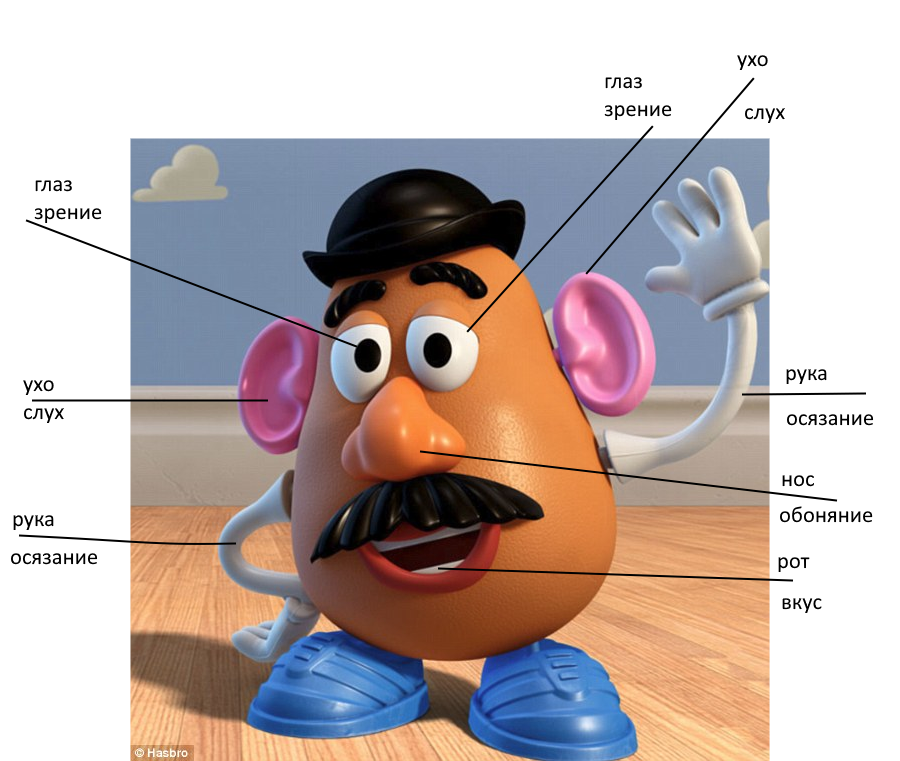
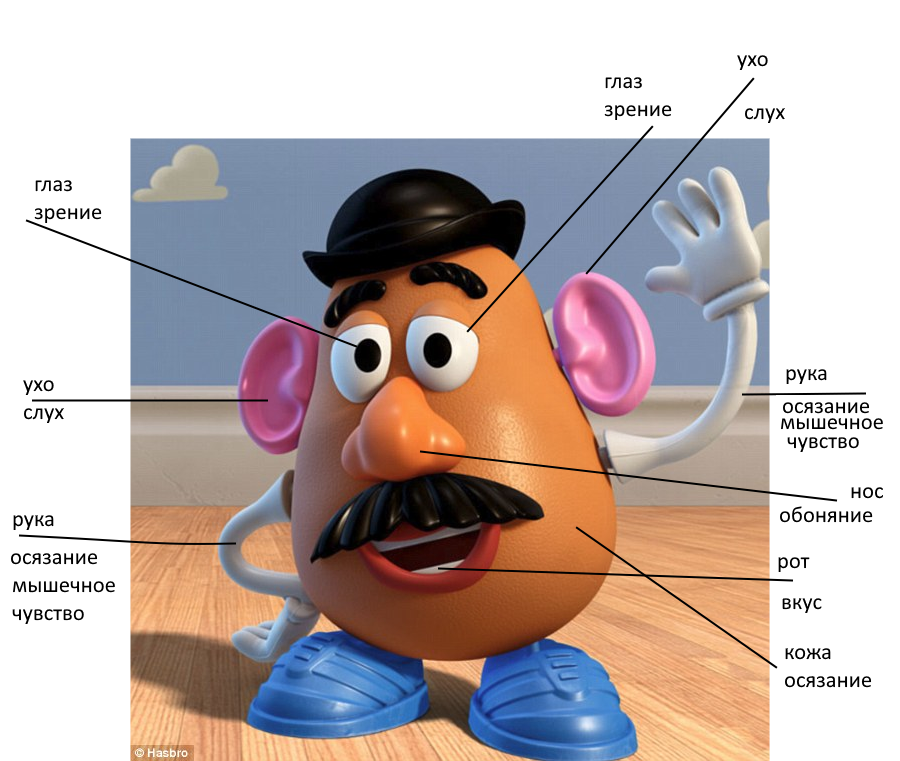
ошибки и кожа

diff --git a/mr_potato.html b/mr_potato.html
@@ -103,10 +103,68 @@ a.back { color: #8cc7ff; font-size: 13px; text-decoration: none; }
 .answer-mark.ask { color: #ffd166; font-size: 32px; line-height: 1; }
 #status { font-size: 14px; min-height: 1.4em; }
 .ok { color: #8ee39f; } .bad { color: #ff9b98; } .info { color: #9ec3ff; }
-.journal { margin-top: 10px; border-top: 1px solid #2d3446; padding-top: 8px; }
-.journal h3 { font-size: 13px; margin-bottom: 6px; color: #b8c7e6; }
-#journal-list { margin: 0; padding-left: 18px; max-height: 160px; overflow: auto; }
-#journal-list li { font-size: 12px; color: #c4cce0; margin: 3px 0; }
+.journal-overlay {
+  position: fixed;
+  inset: 0;
+  z-index: 1000;
+  display: flex;
+  align-items: center;
+  justify-content: center;
+  padding: max(12px, env(safe-area-inset-top)) 14px max(14px, env(safe-area-inset-bottom));
+  background: rgba(8, 9, 14, 0.62);
+  backdrop-filter: blur(4px);
+}
+.journal-overlay[hidden] { display: none !important; }
+.journal-panel {
+  position: relative;
+  width: min(520px, 100%);
+  max-height: min(78vh, 100%);
+  display: flex;
+  flex-direction: column;
+  background: #171a23;
+  border: 1px solid #3a4258;
+  border-radius: 14px;
+  padding: 14px 16px 16px;
+  box-shadow: 0 16px 48px rgba(0,0,0,0.5);
+}
+.journal-panel h2 {
+  font-size: 16px;
+  color: #c8d6f0;
+  margin-bottom: 10px;
+  padding-right: 36px;
+}
+.journal-close-x {
+  position: absolute;
+  top: 8px;
+  right: 8px;
+  width: 36px;
+  height: 36px;
+  border: 1px solid #4a5676;
+  border-radius: 10px;
+  background: #2a2f3f;
+  color: #e9eefb;
+  font-size: 22px;
+  line-height: 1;
+  cursor: pointer;
+  font-weight: 700;
+}
+#journal-list {
+  margin: 0;
+  padding-left: 18px;
+  overflow: auto;
+  flex: 1;
+  min-height: 0;
+  max-height: min(52vh, 420px);
+}
+#journal-list li { font-size: 12px; color: #c4cce0; margin: 4px 0; }
+.journal-modal-actions {
+  display: flex;
+  flex-wrap: wrap;
+  gap: 8px;
+  margin-top: 14px;
+  padding-top: 12px;
+  border-top: 1px solid #2d3446;
+}
 #canvas-wrap {
   position: relative;
   width: 100%;
@@ -147,23 +205,31 @@ button:disabled { opacity: 0.6; cursor: not-allowed; }
   <div class="main">
     <div class="card">
       <div id="prompt">Нажми «Старт»</div>
-      <div id="hint">Игрок видит предмет и лицо героя. Коснись на лице правильных зон органов чувств.</div>
+      <div id="hint">На картинке: уши — слух, глаза — зрение, нос — обоняние, рот — вкус; отдельно кожа осязания (ветер, дождь) и рука — осязание, мышечное чувство (мяч, ложка).</div>
       <div class="item-view"><span id="item-emoji">❔</span><span id="item-name">предмет</span></div>
       <div class="balls" id="balls"><span id="answer-mark" class="answer-mark"></span></div>
       <div id="status" class="info"></div>
       <div class="controls" style="margin-top:10px;">
         <button id="start">Старт</button>
         <button id="restart" class="secondary">Сброс</button>
-        <button id="download-journal" class="secondary">Скачать журнал</button>
-      </div>
-      <div class="journal">
-        <h3>Журнал ответов</h3>
-        <ol id="journal-list"></ol>
+        <button id="journal-open" class="secondary" type="button">Журнал</button>
       </div>
     </div>
 
     <div id="canvas-wrap">
       <canvas id="c"></canvas>
+    </div>
+  </div>
+
+  <div id="journal-modal" class="journal-overlay" hidden role="dialog" aria-modal="true" aria-hidden="true" aria-labelledby="journal-modal-title">
+    <div class="journal-panel" role="document">
+      <button type="button" class="journal-close-x" id="journal-close" aria-label="Закрыть">×</button>
+      <h2 id="journal-modal-title">Журнал ответов</h2>
+      <ol id="journal-list"></ol>
+      <div class="journal-modal-actions">
+        <button type="button" id="download-journal" class="secondary">Скачать журнал</button>
+        <button type="button" id="journal-close-btn" class="secondary">Закрыть</button>
+      </div>
     </div>
   </div>
 </div>
@@ -174,6 +240,7 @@ button:disabled { opacity: 0.6; cursor: not-allowed; }
     { id:'ears',  name:'уши',  file:'img/потейто_уши.png',  color:'rgba(124,193,255,0.32)' },
     { id:'eyes',  name:'глаза', file:'img/потейто_глаза.png', color:'rgba(136,255,170,0.30)' },
     { id:'nose',  name:'нос',  file:'img/потейто_нос.png',  color:'rgba(255,178,94,0.34)' },
+    { id:'skin',  name:'кожа', file:'img/потейто_кожа.png',  color:'rgba(255,200,170,0.28)' },
     { id:'mouth', name:'рот',  file:'img/потейто_рот.png',  color:'rgba(255,120,153,0.32)' },
     { id:'hands', name:'руки', file:'img/потейто_руки.png', color:'rgba(216,163,255,0.30)' },
   ];
@@ -193,8 +260,8 @@ button:disabled { opacity: 0.6; cursor: not-allowed; }
     { name:'шоколад', emoji:'🍫', needs:['mouth'], possible:['eyes','nose','hands'] },
     { name:'ложка', emoji:'🥄', needs:['hands'], possible:['eyes'] },
     { name:'чай', emoji:'🍵', needs:['mouth','nose'], possible:['eyes','hands'] },
-    { name:'свеча', emoji:'🕯', needs:['eyes','nose'], possible:['hands'] },
-    { name:'дождь', emoji:'🌧', needs:['ears','hands'], possible:['eyes'] },
+    { name:'свеча', emoji:'🕯', needs:['eyes','nose'], possible:['hands','skin'] },
+    { name:'дождь', emoji:'🌧', needs:['ears','skin'], possible:['eyes'] },
     { name:'песок', emoji:'🏖', needs:['hands'], possible:['eyes'] },
     { name:'кубики', emoji:'🧱', needs:['hands','eyes'], possible:['ears'] },
     { name:'погремушка', emoji:'🪇', needs:['ears','hands'], possible:['eyes'] },
@@ -206,10 +273,10 @@ button:disabled { opacity: 0.6; cursor: not-allowed; }
     { name:'собака', emoji:'🐶', needs:['ears','eyes'], possible:['hands','nose'] },
     { name:'трава', emoji:'🌿', needs:['hands','nose'], possible:['eyes'] },
     { name:'цветной карандаш', emoji:'✏', needs:['eyes','hands'], possible:[] },
-    { name:'музыка', emoji:'🎵', needs:['ears'], possible:['hands'] },
-    { name:'ветер', emoji:'💨', needs:['hands','ears'], possible:['eyes'] },
-    { name:'лёд', emoji:'🧊', needs:['hands'], possible:['mouth','eyes'] },
-    { name:'мед', emoji:'🍯', needs:['mouth'], possible:['nose','eyes'] },
+    { name:'музыка', emoji:'🎵', needs:['ears'], possible:['skin'] },
+    { name:'ветер', emoji:'💨', needs:['ears','skin'], possible:['eyes','hands'] },
+    { name:'лёд', emoji:'🧊', needs:['hands'], possible:['mouth','eyes','skin'] },
+    { name:'мёд', emoji:'🍯', needs:['mouth'], possible:['nose','eyes'] },
     { name:'часы (тикают)', emoji:'🕰', needs:['ears'], possible:['eyes'] },
     { name:'зеркало', emoji:'🪞', needs:['eyes'], possible:['hands'] },
     { name:'хлеб', emoji:'🍞', needs:['mouth','nose'], possible:['hands','eyes'] },
@@ -228,6 +295,10 @@ button:disabled { opacity: 0.6; cursor: not-allowed; }
   const ballsEl=document.getElementById('balls');
   const answerMarkEl=document.getElementById('answer-mark');
   const journalListEl=document.getElementById('journal-list');
+  const journalModal=document.getElementById('journal-modal');
+  const journalOpenBtn=document.getElementById('journal-open');
+  const journalCloseX=document.getElementById('journal-close');
+  const journalCloseBtn=document.getElementById('journal-close-btn');
   const startBtn=document.getElementById('start');
   const restartBtn=document.getElementById('restart');
   const dlJournalBtn=document.getElementById('download-journal');
@@ -246,13 +317,14 @@ button:disabled { opacity: 0.6; cursor: not-allowed; }
     base:null, lines:null, masks:new Map(), maskData:new Map(),
     drawRect:{x:0,y:0,w:0,h:0},
   };
-  const FEEDBACK_SPEAK_LABEL={
-    ears:'ухо',
-    eyes:'зрение',
-    nose:'нос',
-    mouth:'вкус',
-    hands:'рука',
-  };
+  function feedbackSpeakStem(id){
+    if(id==='hands') return 'Рука осязание мышечное чувство';
+    if(id==='ears') return 'Уши, слух';
+    if(id==='eyes') return 'Глаза, зрение';
+    if(id==='nose') return 'Нос, обоняние';
+    if(id==='mouth') return 'Рот, вкус';
+    return '';
+  }
   const FONT_MIN=0.8, FONT_MAX=1.45, FONT_STEP=0.08;
   const SETTINGS_KEY='mr_potato_settings_v1';
   const PROMPT_GAME_TITLE='ЧЕМ МЫ ЧУВСТВУЕМ';
@@ -326,15 +398,16 @@ button:disabled { opacity: 0.6; cursor: not-allowed; }
   }
   function speakPickFeedback(id, verdict){
     if(!('speechSynthesis' in window)) return;
-    const label=FEEDBACK_SPEAK_LABEL[id];
-    if(!label) return;
     const tail=verdict==='yes'?'да':verdict==='maybe'?'возможно':'нет';
-    speakQueue.push(label+' — '+tail);
-    pumpSpeakQueue();
-  }
-  function speakMissFeedback(){
-    if(!('speechSynthesis' in window)) return;
-    speakQueue.push('Мимо — нет');
+    if(id==='skin'){
+      speakQueue.push('Кожа осязания');
+      speakQueue.push(tail.charAt(0).toUpperCase()+tail.slice(1));
+      pumpSpeakQueue();
+      return;
+    }
+    const stem=feedbackSpeakStem(id);
+    if(!stem) return;
+    speakQueue.push(stem+' — '+tail);
     pumpSpeakQueue();
   }
   function speakItemName(name){
@@ -533,7 +606,6 @@ button:disabled { opacity: 0.6; cursor: not-allowed; }
       answerMarkEl.textContent='?';
       answerMarkEl.className='answer-mark ask';
       setStatus('', 'info');
-      speakMissFeedback();
       draw();
       return;
     }
@@ -606,8 +678,20 @@ button:disabled { opacity: 0.6; cursor: not-allowed; }
     if(state.running) updateHud();
     requestAnimationFrame(tick);
   }
+  function openJournalModal(){
+    journalModal.hidden=false;
+    journalModal.setAttribute('aria-hidden','false');
+    try{ journalCloseX.focus(); }catch(_e){}
+  }
+  function closeJournalModal(){
+    if(journalModal.hidden) return;
+    journalModal.hidden=true;
+    journalModal.setAttribute('aria-hidden','true');
+    try{ journalOpenBtn.focus(); }catch(_e){}
+  }
   function startGame(){
     if(!state.loaded) return;
+    closeJournalModal();
     clearSpeakQueue();
     speakIdleCallbacks.length=0;
     state.running=true;
@@ -618,6 +702,7 @@ button:disabled { opacity: 0.6; cursor: not-allowed; }
     draw();
   }
   function resetGame(){
+    closeJournalModal();
     clearSpeakQueue();
     speakIdleCallbacks.length=0;
     state.running=false;
@@ -659,6 +744,11 @@ button:disabled { opacity: 0.6; cursor: not-allowed; }
   }
   startBtn.addEventListener('click', startGame);
   restartBtn.addEventListener('click', resetGame);
+  journalOpenBtn.addEventListener('click', openJournalModal);
+  journalCloseX.addEventListener('click', closeJournalModal);
+  journalCloseBtn.addEventListener('click', closeJournalModal);
+  journalModal.addEventListener('click', (e)=>{ if(e.target===journalModal) closeJournalModal(); });
+  document.addEventListener('keydown', (e)=>{ if(e.key==='Escape'&&!journalModal.hidden) closeJournalModal(); });
   dlJournalBtn.addEventListener('click', downloadJournal);
   volEl.addEventListener('input',()=>{
     state.volume=(parseInt(volEl.value,10)||0)/100;
